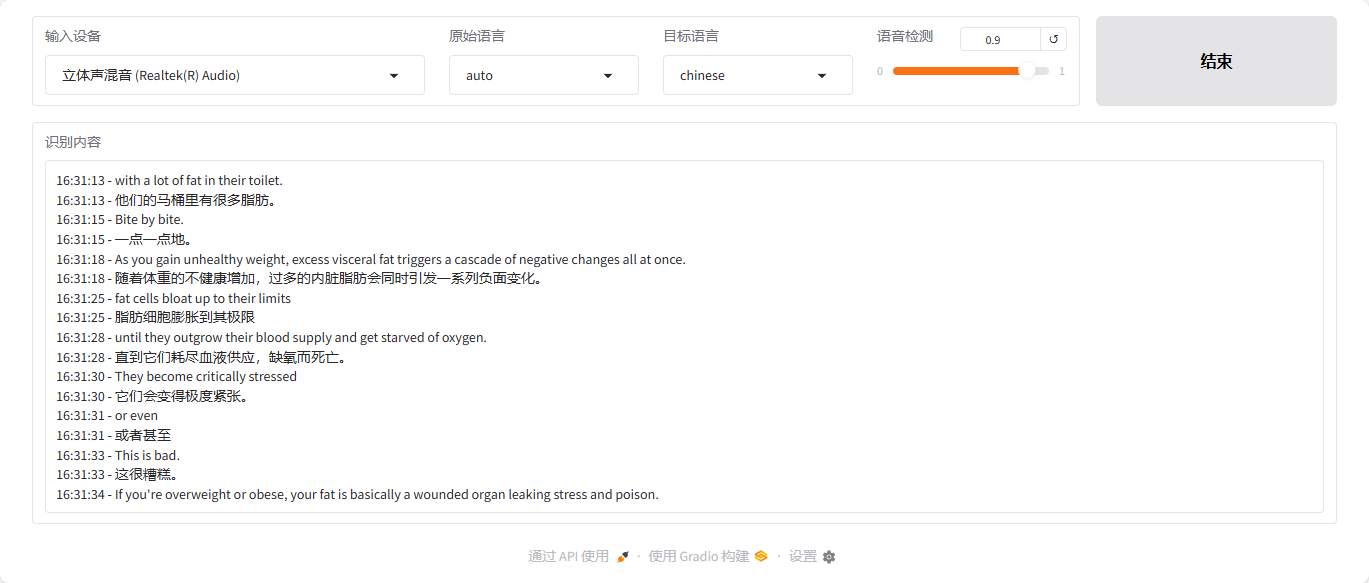
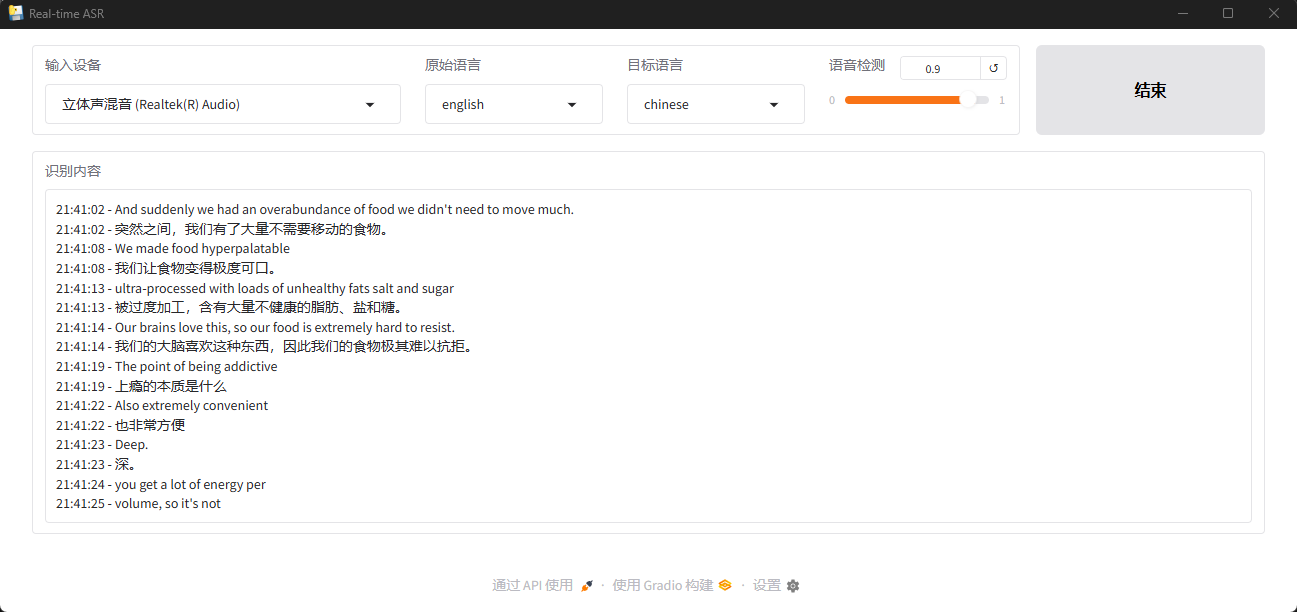
support pyinstaller build
支持使用 PyInstaller 来打包应用

diff --git a/app.py b/app.py
@@ -1,21 +1,23 @@
 import os
 import gradio as gr
 
-from utils.gui import get_audio_devices, set_audio_dev_idx
-from utils.gui import set_source_language, set_target_language
-from utils.gui import set_vad_threshold, set_btn_label
 from utils.cfg import cfg
 from utils.log import logger
-from utils.core import audio_text_update
-from utils.vars import Task_VAD
 
 # 设置环境变量, 用来将 FFmpeg 添加进入系统环境变量中
 try:
     # os.pathsep 是平台相关的路径分隔符
-    os.environ["Path"] = os.path.abspath(cfg.get("General", "FFmpeg_Path")) + os.pathsep + os.environ['PATH'] + os.environ["Path"]
+    os.environ["Path"] = os.path.abspath(cfg.get("General", "FFmpeg_Path")) + os.pathsep + os.environ["Path"]
     logger.info(f"Temporarily add Path environment variables: {os.path.abspath(cfg.get("General", "FFmpeg_Path"))}")
+    logger.info(f"Currently Path environment variables: {os.environ["Path"]}")
 except Exception as e:
     logger.error(e)
+
+from utils.gui import get_audio_devices, set_audio_dev_idx
+from utils.gui import set_source_language, set_target_language
+from utils.gui import set_vad_threshold, set_btn_label
+from utils.core import audio_text_update
+from utils.vars import Task_VAD
 
 # 可录音的设备列表
 audio_devices = get_audio_devices()
@@ -48,7 +50,10 @@ with gr.Blocks(title="Real-time ASR", fill_width=True) as demo:
         ui_audio_content = gr.TextArea(label="识别内容", value=audio_text_update, every=cfg.getfloat("General", "ASR_Update_Freq"))
 
 if __name__ == "__main__":
-    demo.launch(
-        server_port=cfg.getint("General", "Server_Port"),
-        inbrowser=True,
-    )
+    try:
+        demo.launch(
+            # server_port=cfg.getint("General", "Server_Port"),
+            # inbrowser=True,
+        )
+    except Exception as e:
+        logger.error(e)

diff --git a/Real-time ASR.py b/Real-time ASR.py
@@ -1,0 +1,19 @@
+import webview
+from app import demo as gradio_app
+
+# If set to True, the gradio app will not block and the gradio server will terminate as soon as the script finishes.
+# https://www.gradio.app/4.44.1/docs/gradio/blocks
+gradio_app.launch(prevent_thread_lock=True)
+
+# https://pywebview.flowrl.com/api/#webview-create-window
+webview.create_window(
+    title="Real-time ASR", 
+    url=gradio_app.local_url,
+    width=1300,
+    height=450,
+    # 可调整大小
+    resizable=True,
+    # 始终位于其它窗口之上
+    on_top=False,
+    )
+webview.start()

diff --git a/utils/log.py b/utils/log.py
@@ -6,6 +6,7 @@ from utils.cfg import cfg
 from loguru import logger
 logger.remove()
 logger.add(sys.stderr, level=cfg.get("General", "LogLevel"))
+logger.add("logs/app.log", level=cfg.get("General", "LogLevel"))
 
 if __name__ == "__main__":
     logger.success(f"Successfully loaded log module. Current LogLevel: {cfg.get('General', 'LogLevel')}")

diff --git a/README.md b/README.md
@@ -3,11 +3,14 @@ App-for-ASR 是一个基于 Python 的 **实时语音识别** & **翻译** [Grad
 
 
 # Quickstart
-- 打开方式
-    - Windows 系统上双击执行 `strart_srv.bat` 即可 (需要有 `.venv` 虚拟环境)
-    - 使用命令 `python app.py` 来启动服务
-- 浏览器会自动打开, 如果没有请在浏览器里输入 `http://127.0.0.1:7860/` 即可
-
+- 前置准备
+  - 编辑配置文件 `config.cfg`, 需要指定 `FFmpeg_Path` 对应的路径 (需要 Full-Shared 版本)
+  - 编辑配置文件 `config.cfg`, 需要指定 `ASR_Model` 模型对应的路径
+  - 编辑配置文件 `config.cfg`, 需要指定 `LLM` 部分对应的参数
+- 打开方法
+  - 执行 `Real-time ASR.bat`        (请参考 Installation 来配置环境)
+  - 执行 `python Real-time ASR.py`  (请参考 Installation 来配置环境)
+  - 执行编译后的 `Real-time ASR.exe` (请参考 How to Build 部分)
 
 # Running effect
 ![ASR & Translation Running effect](./example/ASR%20and%20Translation%20effect.png)
@@ -87,4 +90,21 @@ App-for-ASR 是一个基于 Python 的 **实时语音识别** & **翻译** [Grad
         pip install -U langchain
         pip install -U langchain-ollama
         pip install -U langchain-openai
+        pip install -U pywebview
+        pip install -U pyinstaller
         ```
+
+
+# How to Build
+> 请确保已经安装好了环境依赖部分
+1. 激活虚拟环境
+  ```CMD
+  cd .\.venv\Scripts && activate.bat
+  ```
+2. 编辑 `Real-time ASR.spec` 文件中的第7行 `ffmpeg_path`，修改为你的 FFmpeg Full-Shared 路径
+3. 启动构建命令, 完成后会在 `dist` 目录下生成可执行文件
+  ```
+  pyinstaller ".\Real-Time ASR.spec"
+  ```
+4. 将文件 `config.json` 和目录 `model` / `FFmpeg` 复制到 `dist\Real-time ASR` 目录下
+5. 调整  `config.json` 相关项, 确保能够找到 `模型目录 model`, `FFmpeg` 的路径, 以及 `LLM` 部分参数正确
